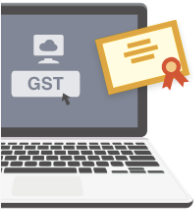
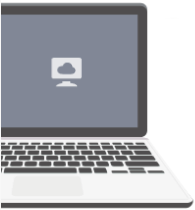
changes for the image on the launching soon popup and for the spelling mistake on the contact us page.

Changed region(s): [[0.4923, 0.0857, 0.9846, 0.4571], [0.0308, 0.1429, 0.4308, 0.5143]]

diff --git a/resources/views/contactus.blade.php b/resources/views/contactus.blade.php
@@ -34,7 +34,7 @@
                     </div>
 
                     <div class="box">
-                        <a href="javascript:void(0);"><i class="fa fa-envelope-o"></i>info@witsync.co</a>
+                        <a href="mailto:info@witsync.co"><i class="fa fa-envelope-o"></i>info@witsync.co</a>
                     </div>
 
                 </div>
@@ -88,7 +88,7 @@
 
                             <div class="col-xs-12 col-sm-12 col-md-12">
                                 <div class="form-group">
-                                    <textarea name="comments" class="form-control input-lg" placeholder="Massage..."
+                                    <textarea name="comments" class="form-control input-lg" placeholder="Message..."
                                               ></textarea>
                                     @if ($errors->has('comments'))
                                         <span class="help-block error">
